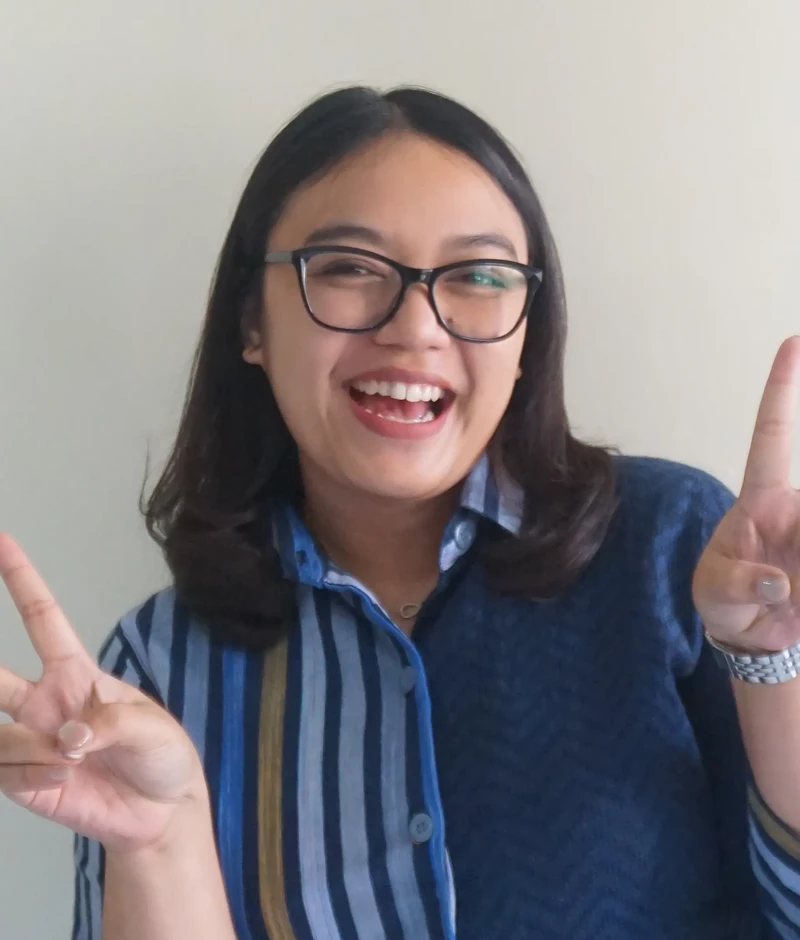
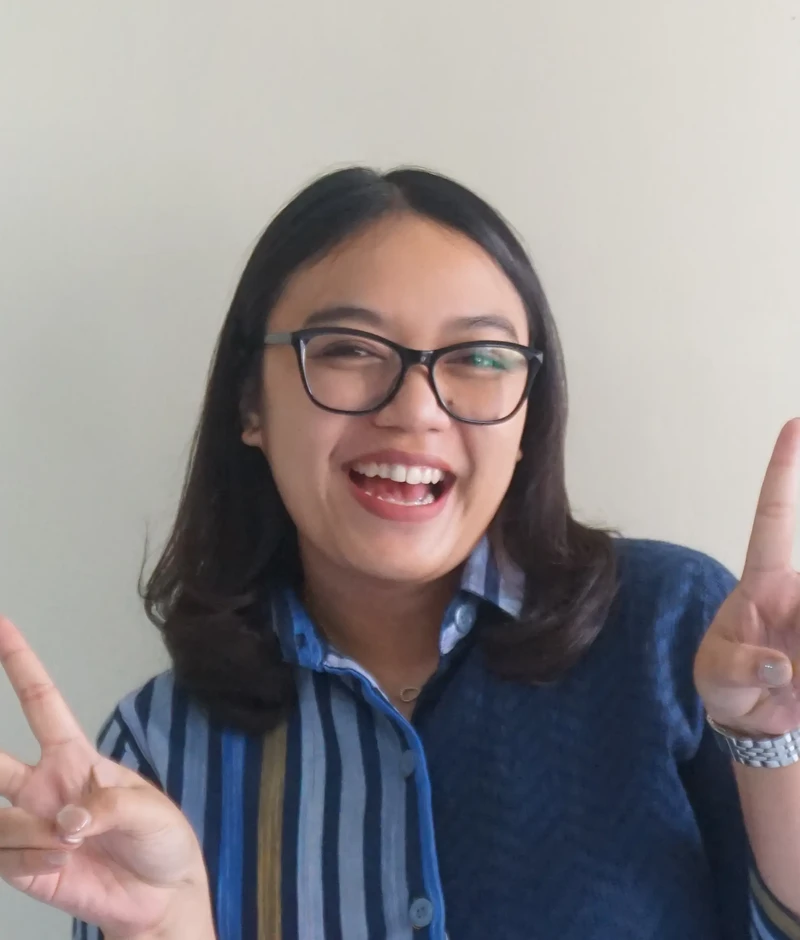
fix(gtk): terapkan formula relaxed bust portrait (headroom 23% & face ratio 32.5%) pada ke-29 foto agar tidak sempit

diff --git a/docs/ACTIVITY_LOG.md b/docs/ACTIVITY_LOG.md
@@ -21,7 +21,7 @@ Setiap kali Admin menyetujui, menolak, atau menghapus prestasi melalui Bot Teleg
 
 | Waktu (WIB) | Aksi | ID | Nama Subjek / Entri | Ajang / Capaian | Kategori & Bidang | Aktor / Eksekutor | Keterangan & Masa Aktif |
 | :--- | :--- | :--- | :--- | :--- | :--- | :--- | :--- |
-| **2026-09-28 22:25 WIB** | `UPDATE_GTK` | **#-** | **Standarisasi 29 Foto & Kuncian 405px** (-) | Normalisasi Skala Wajah & Kuncian Tinggi Kartu 405px (*29 Foto Kalibrasi Presisi*) | Kepegawaian GTK | Webmaster / Admin | Normalisasi skala kepala dan porsi dada pada 29 foto (termasuk zoom-in Bu Esti, Pak Abed, Pak Guntur, Pak Bagus, Bu Tri) dan penguncian tinggi kartu 405px seragam di semua baris. |
+| **2026-09-28 22:30 WIB** | `UPDATE_GTK` | **#-** | **Framing Lega 29 Foto & Kuncian 405px** (-) | Kalibrasi Relaxed Bust Portrait (Anti-Sempit) & Kuncian 405px (*29 Foto Kalibrasi Lega*) | Kepegawaian GTK | Webmaster / Admin | Pelegaan ruang udara atas (headroom 18-24%) dan rasio wajah 32.5% pada ke-29 foto sehingga tidak sempit/mepet, bahu dan dada seragam batik tampak utuh, dan kartu terkunci 405px seragam. |
 | **2026-09-28 22:15 WIB** | `UPDATE_GTK` | **#-** | **Grid 4 Kolom & Desain Ringkas GTK** (-) | Redesain Kartu GTK 4 Kolom & Figur Beranda (*29 Profil Minimalis*) | Kepegawaian GTK | Webmaster / Admin | Penerapan grid 4 kolom di teacher.html agar dada tampak pas, hapus teks deskripsi naratif untuk tampilan bersih, dan ganti kartu depan ke-4 ke Pak Ari Pujianto. |
 | **2026-09-28 22:05 WIB** | `UPDATE_GTK` | **#-** | **29 Pendidik & Tenaga Kependidikan** (-) | Optimalisasi Framing Foto 29 GTK & Gelar Pak Deo (*29 Personil Resmi*) | Kepegawaian GTK | Webmaster / Admin | Optimalisasi framing foto 29 GTK via AI Face Detection (bebas terbalik & bebas terpotong), penambahan gelar Albert Deo Saputra, S.Pd., dan penataan pimpinan terdepan. |
 | **2026-09-28 03:35 WIB** | `TAMBAH` | **#6** | **Kaleb Deven Kristyanto** (Kelas 6A) | Kejuaraan Catur Museum Ambarawa Cup 1 (*Juara 2 • Tingkat Provinsi*) | Olahraga Prestasi | Admin (7187970534) | Disetujui Admin. Masa aktif: Abadi (Evergreen) |

diff --git a/docs/CHANGELOG.md b/docs/CHANGELOG.md
@@ -230,12 +230,12 @@ Format pencatatan perubahan berdasar prinsip [Keep a Changelog](https://keepacha
 
 ---
 
-### 23. TAHAP 19: STANDARISASI KUNCIAN TINGGI KARTU (405PX) & KALIBRASI SKALA FOTO 29 GTK
+### 23. TAHAP 19: STANDARISASI KUNCIAN TINGGI KARTU (405PX) & FRAMING BUST LEGA (ANTI-SEMPIT) 29 GTK
 - **Changed**: Mengunci dimensi seluruh kartu profil GTK secara matematis pada `css/style.css` (Tinggi Kartu: 405px seragam di semua baris, Tinggi Foto: 280px, Wadah Teks: 125px, Wadah Nama: 48px, Wadah Jabatan: 38px).
-- **Fixed**: Mengkalibrasi ulang seluruh 29 foto GTK dari arsip asli resolusi tinggi dengan normalisasi skala wajah (*Face Scale Normalization*):
-  - Melakukan *zoom-in* pada foto yang tampak terlalu jauh/kecil (**Bu Esti, Pak Abed, Pak Guntur, Pak Bagus, Bu Tri**) agar proporsi kepala dan bahunya seimbang dengan rekan sejawat.
-  - Melakukan *zoom-out* proporsional pada foto yang terlalu rapat (**Pak Seto, Pak Deo, Pak Daniel**) agar bidang dada dan seragam batik lebih terbuka.
-  - Menyelaraskan *headroom* (12-15%) sehingga garis tatapan mata (*eye-line*) guru di setiap baris berada di ketinggian yang sejajar lurus.
+- **Fixed**: Mengkalibrasi ulang seluruh 29 foto GTK dari arsip asli resolusi tinggi dengan formula *Relaxed Bust Portrait* (Portret Dada Proporsional):
+  - Memperluas *headroom* menjadi **18%–24%** di atas kepala sehingga rambut tidak mepet ke batas atas kotak (mengatasi keluhan foto terasa "sempit" pada Bu Esti, Pak Ivan, dan guru lainnya).
+  - Menstandarisasi lebar wajah di angka **32.5%** dari lebar bingkai, menyisakan ruang lega di kiri-kanan bahu serta memperlihatkan seragam batik dan gestur tangan dengan leluasa.
+  - Menyelaraskan garis tatapan mata (*eye-line*) guru di setiap baris sehingga sejajar lurus secara horizontal.
 - **Added**: Pencatatan riwayat audit log di `docs/ACTIVITY_LOG.md` dan `data/activity_log.json`.
 
 
